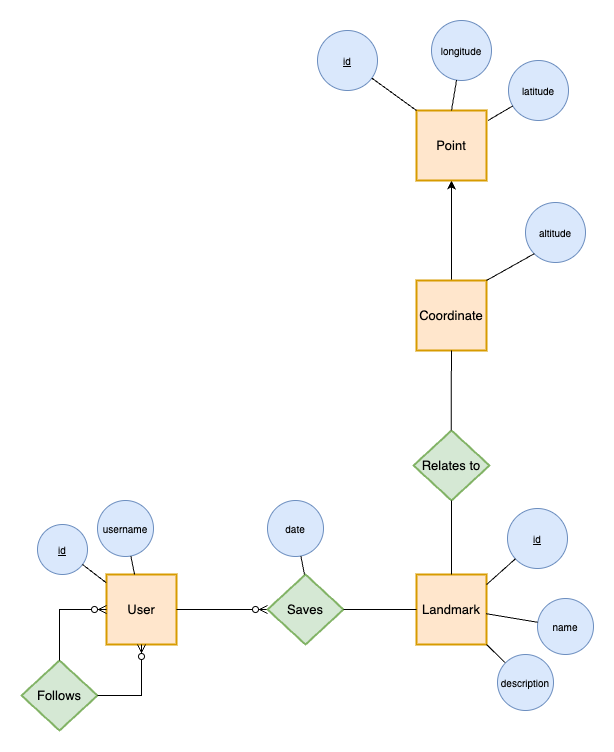
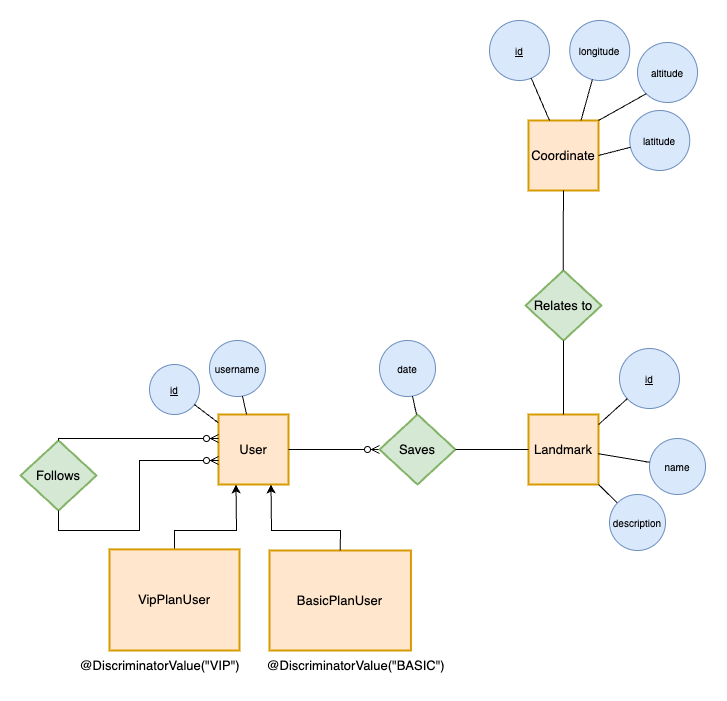
Update ER Model

diff --git a/src/main/java/bicocca2023/assignment3/model/user/User.java b/src/main/java/bicocca2023/assignment3/model/user/User.java
@@ -41,11 +41,9 @@ abstract public class User {
     public void addLandmark(Landmark landmark) throws LandmarksLimitException {
         landmarks.add(landmark);
     }
-
     public List<Landmark> getLandmarks(){
         return landmarks;
     }
-
     @Override
     public String toString(){
         return "(" + id + ") - " + username;

diff --git a/src/main/java/bicocca2023/assignment3/model/Landmark.java b/src/main/java/bicocca2023/assignment3/model/Landmark.java
@@ -17,8 +17,6 @@ public class Landmark {
     @JoinColumn(name = "user_id")
     private User user;
 
-
-    //set get name
     public Coordinate getCoordinate() {
         return coordinate;
     }
